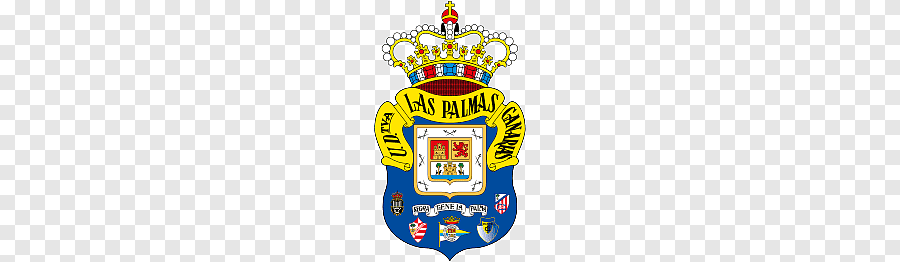
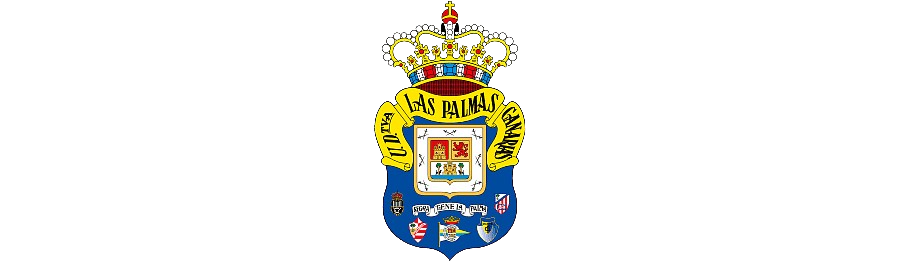
Fotos editadas para quitar el fondo + VentanaEntradas editada el comboBox de seleccionar partido para meter imagenes de los escudos de cada partido.

diff --git a/Proyecto_Prog_Sanma/src/gui/VentanaEntradas.java b/Proyecto_Prog_Sanma/src/gui/VentanaEntradas.java
@@ -1,116 +1,231 @@
 package gui;
 
 import java.awt.BorderLayout;
+import java.awt.Color;
+import java.awt.Component;
 import java.awt.FlowLayout;
+import java.awt.Image;
 import java.awt.event.ActionEvent;
 import java.awt.event.ActionListener;
-
 import javax.swing.BorderFactory;
+import javax.swing.ImageIcon;
 import javax.swing.JButton;
 import javax.swing.JComboBox;
+import javax.swing.DefaultListCellRenderer;
 import javax.swing.JFrame;
 import javax.swing.JLabel;
 import javax.swing.JOptionPane;
 import javax.swing.JPanel;
 import javax.swing.JTextField;
 import javax.swing.SwingUtilities;
+import javax.swing.JList;
+import javax.swing.Icon;
+import javax.swing.BoxLayout;
 
-public class VentanaEntradas extends JFrame{
-	private JTextField cNombre;
-	private JButton bComprar, bCancelar;
-	protected JPanel pNorte,pSur,pCentro,pEste,pOeste;
-	
-	
-	private JComboBox<String> cbPartido;
-	private JComboBox<String> cbTipoSocio;
-	
-	
-	
-	public VentanaEntradas() {
-		setTitle("Gestión de Entradas de San Mamés");
-		setExtendedState(JFrame.MAXIMIZED_BOTH);
-		setDefaultCloseOperation(EXIT_ON_CLOSE);
-		setLocationRelativeTo(null);
-		setLayout(new BorderLayout());
-		
-		
-		
-		JPanel panelInfo = new JPanel();
-		
-		panelInfo.setLayout(new FlowLayout());
-		panelInfo.setBorder(BorderFactory.createTitledBorder("Información del Usuario"));
-		
-		
-		JLabel lNombre = new JLabel("Nombre: ");
-		cNombre = new JTextField(15);
-		panelInfo.add(lNombre);
-		panelInfo.add(cNombre);
-		
-		
-		JPanel pPartido = new JPanel();
-		pPartido.setLayout(new FlowLayout());
-		pPartido.setBorder(BorderFactory.createTitledBorder("Información del Partido"));
-		
-		JLabel lPartido = new JLabel("Seleccionar Partido: ");
-		cbPartido= new JComboBox<>(new String[] 
-				{"Athletic vs Real Madrid", "Athletic vs Barcelona", "Athletic vs Real Sociedad",
-						"Athletic vs Sevilla", "Athletic vs Atlético de Madrid", "Athletic vs Betis", "Athletic vs Mallorca", "Athletic vs Rayo Vallecano",
-						"Athletic vs Villarreal", "Athletic vs Osasuna", "Athletic vs Celta", "Athletic vs Granada", "Athletic vs Alavés", "Athletic vs Cádiz",
-						"Athletic vs Getafe", "Athletic vs Valencia", "Athletic vs Girona", "Athletic vs Las Palmas"});
-		pPartido.add(lPartido);
-		pPartido.add(cbPartido);
-		
-		
-		JPanel pTipoSocio = new JPanel();
-		pTipoSocio.setLayout(new FlowLayout());
-		pTipoSocio.setBorder(BorderFactory.createTitledBorder("Información del tipo de Socio"));
-		
-		JLabel lTipoSocio = new JLabel("Selecciona el tipo de Socio:");
-		cbTipoSocio = new JComboBox<>(new String[] 
-				{"Socio Normal", "Socio VIP", "Socio Jubilado", "Socio Gazte Abono"});
-		pTipoSocio.add(lTipoSocio);
-		pTipoSocio.add(cbTipoSocio);
-		
-		
-		JPanel pBotones = new JPanel();
-		pBotones.setLayout(new FlowLayout());
-		pBotones.setBorder(null);
-		
-		bComprar = new JButton("Comprar Entrada");
-		bCancelar = new JButton("Cancelar");
-		pBotones.add(bComprar);
-		pBotones.add(bCancelar);
-		
-				
+public class VentanaEntradas extends JFrame {
+    private JTextField cNombre;
+    private JButton bComprar, bCancelar;
+
+    private JComboBox<PartidoCombo> cbPartido;
+    private JComboBox<String> cbTipoSocio;
+
+    public VentanaEntradas() {
+        setTitle("Gestión de Entradas de San Mamés");
+        setExtendedState(JFrame.MAXIMIZED_BOTH);
+        setDefaultCloseOperation(EXIT_ON_CLOSE);
+        setLocationRelativeTo(null);
+        setLayout(new BorderLayout());
+
+        JPanel panelInfo = new JPanel();
+        panelInfo.setLayout(new FlowLayout());
+        panelInfo.setBorder(BorderFactory.createTitledBorder("Información del Usuario"));
+
+        JLabel lNombre = new JLabel("Nombre: ");
+        cNombre = new JTextField(15);
+        panelInfo.add(lNombre);
+        panelInfo.add(cNombre);
+
+        JPanel pPartido = new JPanel();
+        pPartido.setLayout(new FlowLayout());
+        pPartido.setBorder(BorderFactory.createTitledBorder("Información del Partido"));
+
+        JLabel lPartido = new JLabel("Seleccionar Partido: ");
+        
+        
+        PartidoCombo[] partidos = {
+            new PartidoCombo("Athletic vs Real Madrid", 
+                    redimensionarIcono("Imagenes/ImagenesEquipos/AthleticClub.png"), 
+                    redimensionarIcono("Imagenes/ImagenesEquipos/RealMadrid.png")),
+            new PartidoCombo("Athletic vs Barcelona", 
+                    redimensionarIcono("Imagenes/ImagenesEquipos/AthleticClub.png"), 
+                    redimensionarIcono("Imagenes/ImagenesEquipos/Barça.png")),
+            new PartidoCombo("Athletic vs Real Sociedad", 
+            		redimensionarIcono("Imagenes/ImagenesEquipos/AthleticClub.png"), 
+                    redimensionarIcono("Imagenes/ImagenesEquipos/RealSociedad.png")),
+            new PartidoCombo("Athletic vs Alaves", 
+                    redimensionarIcono("Imagenes/ImagenesEquipos/AthleticClub.png"), 
+                    redimensionarIcono("Imagenes/ImagenesEquipos/Alaves.png")),
+            new PartidoCombo("Athletic vs Atletico de Madrid", 
+                    redimensionarIcono("Imagenes/ImagenesEquipos/AthleticClub.png"), 
+                    redimensionarIcono("Imagenes/ImagenesEquipos/AtleticoMadrid.png")),
+            new PartidoCombo("Athletic vs Betis", 
+                    redimensionarIcono("Imagenes/ImagenesEquipos/AthleticClub.png"), 
+                    redimensionarIcono("Imagenes/ImagenesEquipos/Betis.png")),
+            new PartidoCombo("Athletic vs Celta", 
+                    redimensionarIcono("Imagenes/ImagenesEquipos/AthleticClub.png"), 
+                    redimensionarIcono("Imagenes/ImagenesEquipos/Celta.png")),
+            new PartidoCombo("Athletic vs RCD Espanyol", 
+                    redimensionarIcono("Imagenes/ImagenesEquipos/AthleticClub.png"), 
+                    redimensionarIcono("Imagenes/ImagenesEquipos/Espanyol.png")),
+            new PartidoCombo("Athletic vs Getafe", 
+                    redimensionarIcono("Imagenes/ImagenesEquipos/AthleticClub.png"), 
+                    redimensionarIcono("Imagenes/ImagenesEquipos/Getafe.png")),
+            new PartidoCombo("Athletic vs Girona", 
+                    redimensionarIcono("Imagenes/ImagenesEquipos/AthleticClub.png"), 
+                    redimensionarIcono("Imagenes/ImagenesEquipos/Girona.png")),
+            new PartidoCombo("Athletic vs UD Las Palmas", 
+                    redimensionarIcono("Imagenes/ImagenesEquipos/AthleticClub.png"), 
+                    redimensionarIcono("Imagenes/ImagenesEquipos/LasPalmas.png")),
+            new PartidoCombo("Athletic vs Leganes", 
+                    redimensionarIcono("Imagenes/ImagenesEquipos/AthleticClub.png"), 
+                    redimensionarIcono("Imagenes/ImagenesEquipos/Leganes.png")),
+            new PartidoCombo("Athletic vs RCD Mallorca", 
+                    redimensionarIcono("Imagenes/ImagenesEquipos/AthleticClub.png"), 
+                    redimensionarIcono("Imagenes/ImagenesEquipos/Mallorca.png")),
+            new PartidoCombo("Athletic vs Osasuna", 
+                    redimensionarIcono("Imagenes/ImagenesEquipos/AthleticClub.png"), 
+                    redimensionarIcono("Imagenes/ImagenesEquipos/Osasuna.png")),
+            new PartidoCombo("Athletic vs Rayo Vallecano", 
+                    redimensionarIcono("Imagenes/ImagenesEquipos/AthleticClub.png"), 
+                    redimensionarIcono("Imagenes/ImagenesEquipos/RealSociedad.png")),
+            new PartidoCombo("Athletic vs Sevilla", 
+                    redimensionarIcono("Imagenes/ImagenesEquipos/AthleticClub.png"), 
+                    redimensionarIcono("Imagenes/ImagenesEquipos/Sevilla.png")),
+            new PartidoCombo("Athletic vs Valencia CF", 
+                    redimensionarIcono("Imagenes/ImagenesEquipos/AthleticClub.png"), 
+                    redimensionarIcono("Imagenes/ImagenesEquipos/Valencia.png")),
+            new PartidoCombo("Athletic vs Valladolid", 
+                    redimensionarIcono("Imagenes/ImagenesEquipos/AthleticClub.png"), 
+                    redimensionarIcono("Imagenes/ImagenesEquipos/Valladolid.png")),
+            new PartidoCombo("Athletic vs Villareal", 
+                    redimensionarIcono("Imagenes/ImagenesEquipos/AthleticClub.png"), 
+                    redimensionarIcono("Imagenes/ImagenesEquipos/Villareal.png")),
+        };
+
+        cbPartido = new JComboBox<>(partidos);
+        cbPartido.setRenderer(new ComboBoxRenderer());
+
+        pPartido.add(lPartido);
+        pPartido.add(cbPartido);
+
+        JPanel pTipoSocio = new JPanel();
+        pTipoSocio.setLayout(new FlowLayout());
+        pTipoSocio.setBorder(BorderFactory.createTitledBorder("Información del tipo de Socio"));
+
+        JLabel lTipoSocio = new JLabel("Selecciona el tipo de Socio:");
+        cbTipoSocio = new JComboBox<>(new String[] { "Socio Normal", "Socio VIP", "Socio Jubilado", "Socio Gazte Abono" });
+        pTipoSocio.add(lTipoSocio);
+        pTipoSocio.add(cbTipoSocio);
+
+        JPanel pBotones = new JPanel();
+        pBotones.setLayout(new FlowLayout());
+        pBotones.setBorder(null);
+
+        bComprar = new JButton("Comprar Entrada");
+        bCancelar = new JButton("Cancelar");
+        pBotones.add(bComprar);
+        pBotones.add(bCancelar);
+
         add(panelInfo, BorderLayout.NORTH);
         add(pPartido, BorderLayout.CENTER);
         add(pTipoSocio, BorderLayout.WEST);
         add(pBotones, BorderLayout.SOUTH);
-        
-        
-        bComprar.addActionListener(new ActionListener() {
-			
-			@Override
-			public void actionPerformed(ActionEvent e) {
-				String nombre = cNombre.getText();
-				String partido = (String) cbPartido.getSelectedItem();
-				String socio = (String) cbTipoSocio.getSelectedItem();
-				
-				if (nombre.isEmpty()) {
-					JOptionPane.showMessageDialog(null, "Error! Nombre Necesario.");
-				}else {
-					JOptionPane.showMessageDialog(null, "Compra Existosa!");
-				}
-				
-				
-			}
-		});
 
-	}
-	
-	public static void main(String[] args) {
+        bComprar.addActionListener(new ActionListener() {
+            @Override
+            public void actionPerformed(ActionEvent e) {
+                String nombre = cNombre.getText();
+                PartidoCombo partido = (PartidoCombo) cbPartido.getSelectedItem();
+                String socio = (String) cbTipoSocio.getSelectedItem();
+
+                if (nombre.isEmpty()) {
+                    JOptionPane.showMessageDialog(null, "Error! Nombre Necesario.");
+                } else {
+                    JOptionPane.showMessageDialog(null, "Compra Exitosa para " + partido.getNombrePartido() + "!");
+                }
+            }
+        });
+    }
+
+    // Método para redimensionar icono
+    private Icon redimensionarIcono(String rIcono) {
+        ImageIcon iconoOriginal = new ImageIcon(rIcono);
+        Image imagen = iconoOriginal.getImage().getScaledInstance(80, 80, Image.SCALE_SMOOTH);
+        return new ImageIcon(imagen);
+    }
+
+    // Clase interna para representar cada opción con ambos equipos y sus iconos
+    class PartidoCombo {
+        private String nombrePartido;
+        private Icon iconoEquipo1;
+        private Icon iconoEquipo2;
+
+        public PartidoCombo(String nombrePartido, Icon iconoEquipo1, Icon iconoEquipo2) {
+            this.nombrePartido = nombrePartido;
+            this.iconoEquipo1 = iconoEquipo1;
+            this.iconoEquipo2 = iconoEquipo2;
+        }
+
+        public String getNombrePartido() {
+            return nombrePartido;
+        }
+
+        public Icon getIconoEquipo1() {
+            return iconoEquipo1;
+        }
+
+        public Icon getIconoEquipo2() {
+            return iconoEquipo2;
+        }
+
+        @Override
+        public String toString() {
+            return nombrePartido;
+        }
+    }
+
+
+    class ComboBoxRenderer extends DefaultListCellRenderer {
+        @Override
+        public Component getListCellRendererComponent(JList<?> list, Object value, int index, boolean isSelected, boolean cellHasFocus) {
+            JPanel panel = new JPanel();
+            panel.setLayout(new FlowLayout(FlowLayout.CENTER));
+            if (value instanceof PartidoCombo) {
+                PartidoCombo partido = (PartidoCombo) value;
+                
+                JLabel labelEquipo1 = new JLabel(partido.getIconoEquipo1());
+                JLabel labelTexto = new JLabel(partido.getNombrePartido());
+                JLabel labelEquipo2 = new JLabel(partido.getIconoEquipo2());
+
+                panel.add(labelEquipo1); 
+                panel.add(labelTexto);   
+                panel.add(labelEquipo2); 
+            }
+            
+            if (isSelected) {
+                panel.setBackground(Color.RED);
+            } else {
+                panel.setBackground(getBackground());
+            }
+
+            return panel;
+        }
+    }
+    
+    
+
+    public static void main(String[] args) {
             VentanaEntradas ventana = new VentanaEntradas();
             ventana.setVisible(true);
-            
-	};
-}
+        };
+    }
